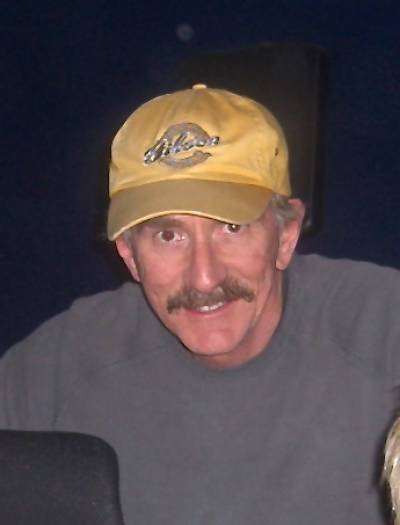
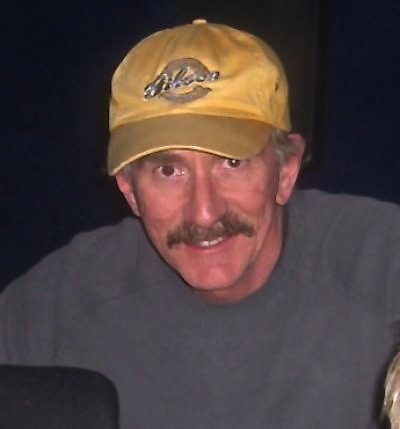
Adjusted headshots to match better; made footer divider fullWidth

diff --git a/_layouts/post.html b/_layouts/post.html
@@ -17,7 +17,7 @@ layout: default
   {% if page.linkout %} 
   	<div class="large-12 columns linkout">
   		<p>
-  			(The following is an exerpt from the original piece, found <a href="{{ page.linkout }}">here</a>.)
+  			(The following is an exerpt from the original piece, found <a href="{{ page.linkout }}" target="_blank">here</a>.)
   		</p>
   	</div>
   {% endif %}

diff --git a/_includes/press.html b/_includes/press.html
@@ -26,6 +26,9 @@
 					</div>
 				</li>
 			{% endfor %}
+
+			<!-- need to add <li> elements to fill out space in case there are less than 6 in site.posts.length. Should be something like: site posts length < 6 then 6 - site.posts.length and add that many <li> elements -->
+
 			</ul>
 		</div>
 		<div class="row more_press">

diff --git a/_includes/footer.html b/_includes/footer.html
@@ -1,4 +1,4 @@
-<footer class="site-footer row">
+<footer class="site-footer row fullWidth">
   <div class="large-12 columns">
     <p>
         Site by your boy, <a href="http://www.twitter.com/elevee">elevee</a>.
